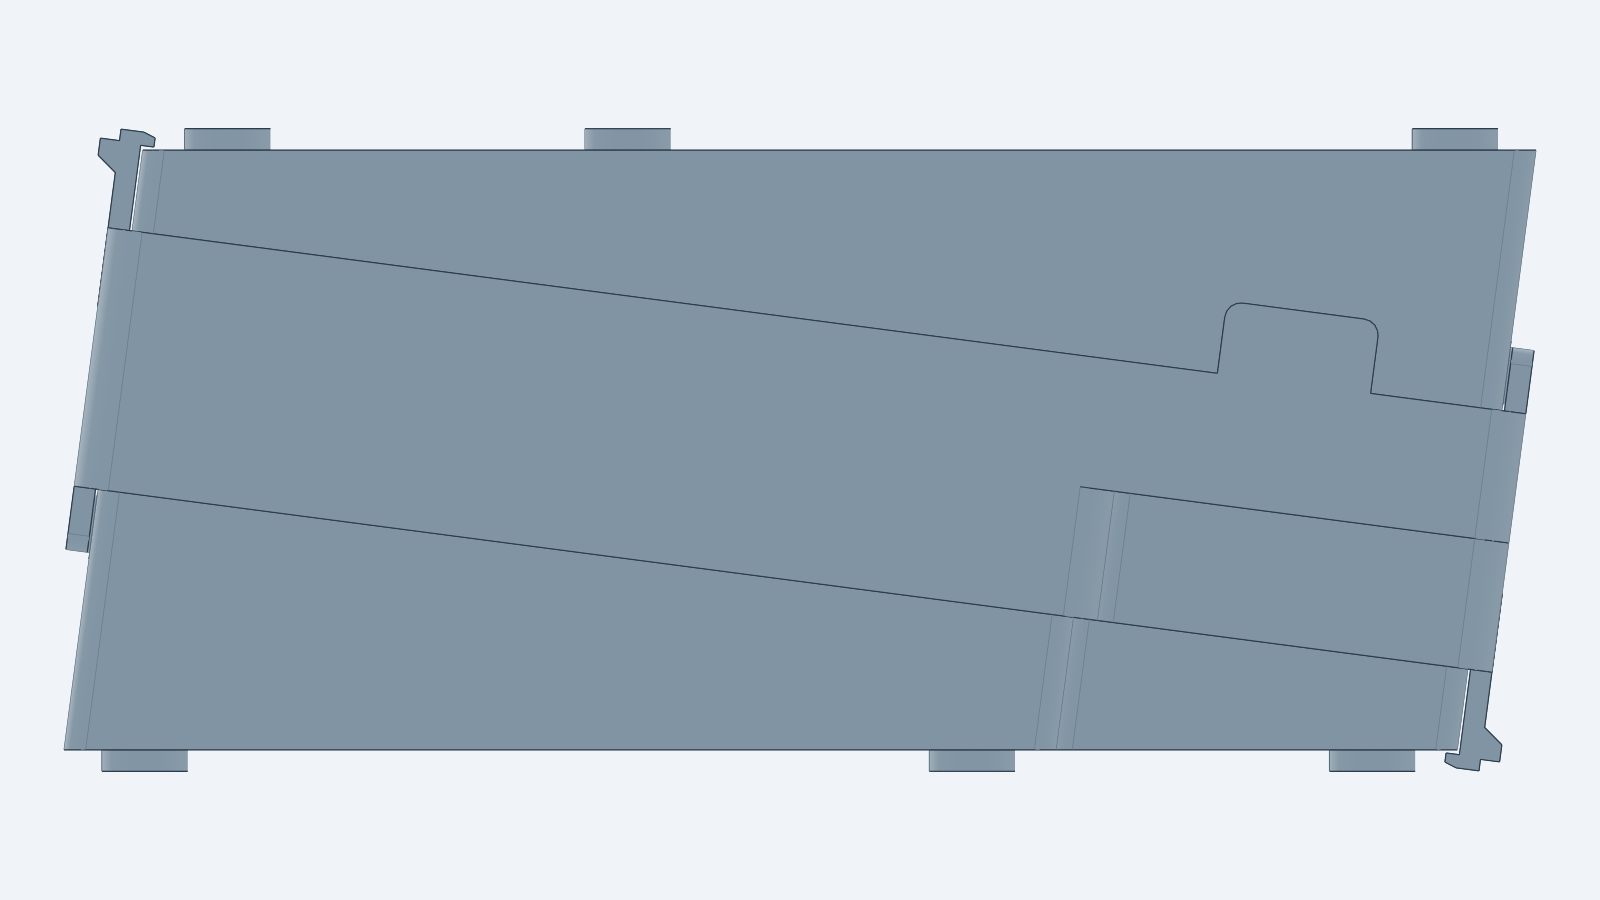
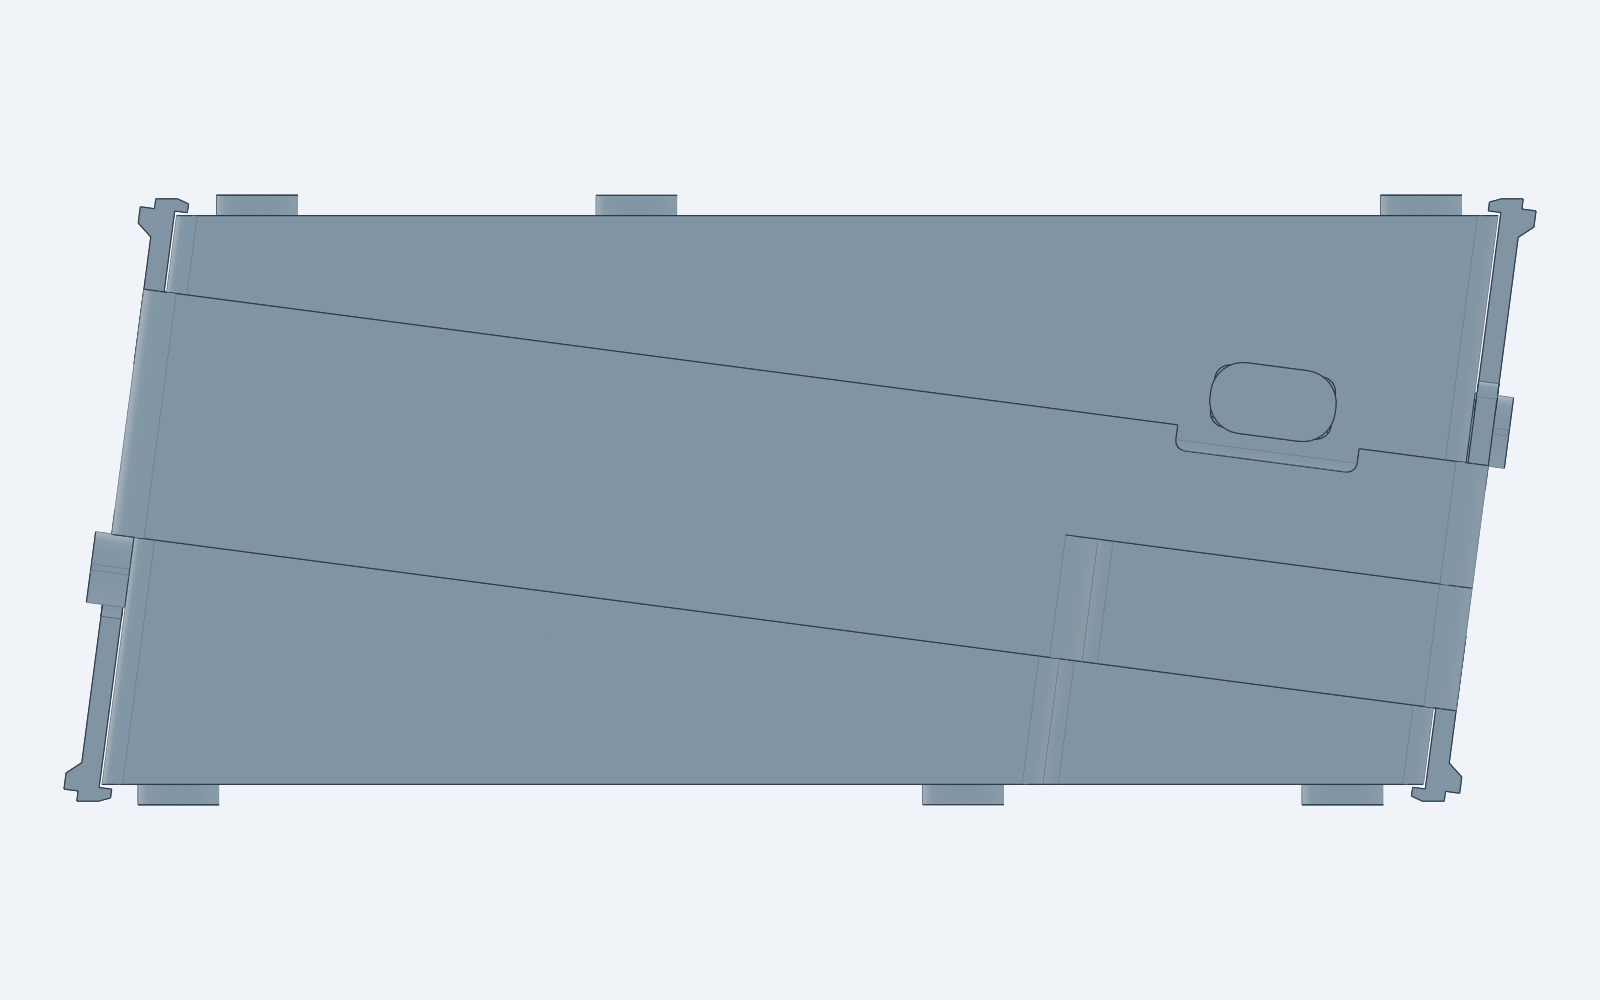
docs: sync carrying frame previews and guide for open USB-C magnetic tips

diff --git a/scripts/README.md b/scripts/README.md
@@ -40,7 +40,7 @@ $CADGEN_PY = "$env:USERPROFILE\.local\bin\uvx.exe"
 | **[`generate_sensor_assemblies.py`](./generate_sensor_assemblies.py)** | PMW3360DM-T2QU + LM19-LSI レンズ + PCB の光学アセンブリ（`cases/assemblies/pmw3360-lens-pcb-assembly.step`）およびカップ＋ボール統合検証モデル（`cases/assemblies/trackball-sensor-assembly.step`）を生成します（両モデルとも `Lens_Optical_Ref_Point` を収録）。 |
 | **[`generate_inertia_wheel.py`](./generate_inertia_wheel.py)** | アンダープレート 1ピース一体軸パッシブ磁気慣性ホイール実部品 4種（[`cases/inertia_wheel/`](../cases/inertia_wheel/) 配下の JLCCNC `45# Steel + 無電解Ni` 削り出し $\varnothing 22.0 \times 6.50\text{ mm}$ `steel-flywheel`、および JLC3DP MJF/SLS PA12 造形 `magnet-holder`, `wheel-rocker`, `wheel-cradle`［Cクリップスナップインヒンジ付］の STEP/STL）ならびに検証アセンブリ（`cases/assemblies/inertia-wheel-assembly.step`）を生成し、JLCCNC/JLC3DP 造形ルール・0.80mm未満薄肉完全ゼロ（除外0件）・静止姿勢（$0^\circ$）〜中クリック押下姿勢（$2.20^\circ$）の全パーツ間干渉ゼロ（`0.00000000 mm³`）・最小可動クリアランス・**6自由度（6-DOF）固定＆稼働拘束検証（`verify_6dof_constraints()`：基板未装着での `#03/#04` 一体保持含む）** を一括検証します。 |
 | **[`generate_full_assembly.py`](./generate_full_assembly.py)** | `kicad-cli pcb export step --subst-models --no-dnp` により全3基板（`left`, `right`, `pmw3360`）と **全535個のKiCad実3D部品モデル** を直接出力・同期したうえで、嵌合する **JST `SHR-06V-S-B` ハウジング 2個**・左右ケース・左右トッププレート・Kailh Choc V2 スイッチ 40個・キーキャップ 40個・トラックボールカップ・25mm球・PMW3360・LM19レンズ・`Lens_Optical_Ref_Point`・アンダープレート一体軸慣性ホイール一式・`M2×L3.0×OD3.2mm` 真鍮ヒートセットインサート 19個・統一 `M2×6.0mm` ネジ 19本を統合したフルアセンブリ（`cases/assemblies/assembly-full.step`, `assembly-full-desk.step`、全674ソリッド）および右手ホイール検証モデル（`cases/assemblies/curcur40-right-wheel-assembly.step`、全349ソリッド）を生成し、①全パーツ間の干渉体積ゼロ（`0.00000000 mm³`）、②非接触パーツ間の最小クリアランス、③3Dプリント部品全6種の0.80mm未満肉厚チェック（確定除外箇所を除く違反0件）、④**スイッチ嵌合トッププレート・フラットボス＆内壁受け棚締結基板・カップ＆ホイール全体の 6-DOF 機械的拘束検証** を一括検証します。 |
-| **[`generate_carrying_case.py`](./generate_carrying_case.py)** | 持ち運び用 1ピース・スナップイン・キャリングフレーム（`cases/carrying-frame.step`, `carrying-frame.stl`：互い違いウェッジ相殺対面構造・親指側 USB-C 固定ツメ＋小指側ワンタッチカンチレバーパドルラッチ・25mm球非接触ハローキーパー・L字欠きシールド・USB-C 防塵シャッター一体造形）および `assembly-full.step` 全674ソリッド＋ゴム足10個を統合した収納アセンブリ（`cases/assemblies/carrying-assembly.step`、全685ソリッド、外寸 $137.27 \times 100.31 \times 59.92\text{ mm}$）を生成し、JLC3DP 基本造形ルール・0.80mm未満薄肉完全ゼロ（除外0件）・全685ソリッド間干渉ゼロ（`0.00000000 mm³`）・最小表面クリアランス・6-DOF 保持拘束を一括検証します。 |
+| **[`generate_carrying_case.py`](./generate_carrying_case.py)** | 持ち運び用 1ピース・スナップイン・キャリングフレーム（`cases/carrying-frame.step`, `carrying-frame.stl`：互い違いウェッジ相殺対面構造・全4箇所 USB-C マグネット端子 `CIO-SLMG-T-C` 用 幅 $18.0\text{ mm}$ 完全開放 U字切り欠き・親指側＆小指側両側ワンタッチカンチレバーパドルラッチ・25mm球非接触ハローキーパー・L字欠きシールド一体造形）および `assembly-full.step` 全674ソリッド＋ゴム足10個＋`CIO-SLMG-T-C` 4個を統合した収納アセンブリ（`cases/assemblies/carrying-assembly.step`、全689ソリッド、外寸 $144.76 \times 103.51 \times 59.92\text{ mm}$）を生成し、JLC3DP 基本造形ルール・0.80mm未満薄肉完全ゼロ（除外0件）・全689ソリッド間干渉ゼロ（`0.00000000 mm³`）・ストレート着脱経路クリアランス・最小表面クリアランス・6-DOF 保持拘束を一括検証します。 |
 
 ### ② KiCad 基板・プレート・JLCPCB 発注データ・図版スクリプト
 ```powershell

diff --git a/README.md b/README.md
@@ -126,14 +126,14 @@ KiCad 10.0 Raytracing（`kicad-cli pcb render`）、`cadgen` 3D CAD レンダラ
 ---
 
 ### 6. 持ち運び用スナップイン・キャリングフレーム（オプション：`carrying-frame.step` / `carrying-assembly.step`）
-- **最小サイズ互い違いウェッジ相殺（$137.27 \times 100.31 \times 59.92\,\text{mm}$）**: 左右ケースの $7.47^\circ$ ビルトインテンティング傾斜を互い違いの向き（左手を $X$ 軸まわりに $180^\circ$ 反転）で対面させて完全に相殺し、$\varnothing 8 \times 2\,\text{mm}$ ゴム足込みでも均一厚み $59.92\,\text{mm}$（素ケース厚 $55.92\,\text{mm}$）のコンパクトな平行直方体ブロックとしてはめ合わせます。
-- **25mm トラックボール装着＆底面ゴム足のままワンタッチ着脱**: ネジ・マグネット・ゴムバンド等の別部品を一切使わない **1ピース `PA12` ナイロン一体造形（`carrying-frame.step`, 体積 $43.29\,\text{cm}^3$）**。25mm ボール周囲を非接触 $0.58\,\text{mm}$ クリアランスで囲うハローキーパー（落下衝撃時の浮き上がりを $+0.73\,\text{mm}$ 以下に制限）、全4箇所の USB-C 防塵シャッター、L字欠き保護シールドを備え、親指側ツメ引っ掛け＋小指側パドルラッチで片手1秒で着脱できます。
+- **最小厚み互い違いウェッジ相殺（均一厚み $59.92\,\text{mm}$）**: 左右ケースの $7.47^\circ$ ビルトインテンティング傾斜を互い違いの向き（左手を $X$ 軸まわりに $180^\circ$ 反転）で対面させて完全に相殺し、$\varnothing 8 \times 2\,\text{mm}$ ゴム足 10 個および全 4 箇所の USB-C マグネット端子（`CIO-SLMG-T-C`）を装着したまま **$144.76 \times 103.51 \times 59.92\,\text{mm}$**（素ケース厚 $55.92\,\text{mm}$）の平行直方体ブロックとしてはめ合わせます。
+- **全4箇所 USB-C マグネット端子常時装着対応 ＆ 両側パドルラッチで押し込みロック**: ネジ・マグネット・ゴムバンド等の別部品を一切使わない **1ピース `PA12` ナイロン一体造形（`carrying-frame.step`, 外寸 $144.76 \times 100.31 \times 59.22\,\text{mm}$, 体積 $44.79\,\text{cm}^3$）**。全4箇所の USB-C ポート周りを幅 $18.0\,\text{mm}$ のオープン U字切り欠きで完全開放しており、`CIO-SLMG-T-C` を付けっぱなしのまま真上から押し込むだけで親指側・小指側の両側カンチレバー・パドルラッチが「カチッ」とロックします（25mm ボール非接触ハローキーパー＆L字欠き保護シールド内蔵）。
 
 | キャリングフレーム単体 (`cases/carrying-frame.step`) | 収納フルアセンブリ 斜視図 (`cases/assemblies/carrying-assembly.step`) |
 | :---: | :---: |
 | ![Carrying Frame Isometric](./docs/assets/render_carrying_frame_iso.png) | ![Carrying Assembly Isometric](./docs/assets/render_carrying_assembly_iso.png) |
 
-#### 正面図（7.47°テンティング傾斜が相殺され上下平行に整列した収納状態・ゴム足接地）
+#### 正面図（7.47°テンティング傾斜が相殺され上下平行に整列した収納状態・USB-Cマグネット端子開放＆ゴム足接地）
 ![Carrying Assembly Front](./docs/assets/render_carrying_assembly_front.png)
 
 ---
@@ -157,7 +157,7 @@ curcur40/
 │   └── assemblies/               # 光学距離・干渉・クリアランス検証用アセンブリモデル 8種 (STEP / STL)
 │       ├── assembly-full.step                    # KiCad実3D部品535個同期・全674ソリッド統合フルアセンブリ（トッププレート水平基準）
 │       ├── assembly-full-desk.step               # KiCad実3D部品535個同期・全674ソリッド統合フルアセンブリ（ケース底面＝デスク面 Z=0 基準）
-│       ├── carrying-assembly.step                # キャリングフレーム収納フルアセンブリ（全685ソリッド・ゴム足10個統合）
+│       ├── carrying-assembly.step                # キャリングフレーム収納フルアセンブリ（全689ソリッド・ゴム足10個＆CIO端子4個統合）
 │       ├── curcur40-right-wheel-assembly.step    # 右手＋KiCad実3D部品＋アンダープレート慣性ホイール検証アセンブリ（349ソリッド）
 │       ├── inertia-wheel-assembly.step           # アンダープレート慣性ホイール機構単体アセンブリ（14パーツ）
 │       ├── trackball-cup-with-ball.step/.stl     # カップ＋25mm球＋光学基準点アセンブリ

diff --git a/docs/parts_spec.md b/docs/parts_spec.md
@@ -101,7 +101,7 @@
 | [`cases/inertia_wheel/magnet-holder.step`](../cases/inertia_wheel/magnet-holder.step) | MJF / SLS `PA12` | 1 | `D4×1mm` 磁石接着レス保持キャップ（東側 $\varnothing 2.00\,\text{mm}$ D穴圧入、$\varnothing 5.72 \times 2.05\,\text{mm}$） |
 | [`cases/inertia_wheel/wheel-rocker.step`](../cases/inertia_wheel/wheel-rocker.step) | MJF / SLS `PA12` | 1 | ホイール軸受シーソーロッカー（Cクリップ軸受座・一体 $\varnothing 3.0\,\text{mm}$ 支点軸・西キーパータブ・南ラチェットボス） |
 | [`cases/inertia_wheel/wheel-cradle.step`](../cases/inertia_wheel/wheel-cradle.step) | MJF / SLS `PA12` | 1 | 右メイン基板裏面固定クレードル（`WC1`/`WC2` インサート下穴×2・$\varnothing 3.06\,\text{mm}$ Cクリップ軸受連結） |
-| [`cases/carrying-frame.step`](../cases/carrying-frame.step) | MJF / SLS `PA12` | 1（任意） | **【オプション】持ち運び用スナップイン・キャリングフレーム**（ネジ・別部品ゼロの1ピース一体造形、25mm球装着＆ゴム足貼付のまま左右対面ワンタッチ収納、外寸 $136.93 \times 100.31 \times 42.86\,\text{mm}$・体積 $43.29\,\text{cm}^3$） |
+| [`cases/carrying-frame.step`](../cases/carrying-frame.step) | MJF / SLS `PA12` | 1（任意） | **【オプション】持ち運び用スナップイン・キャリングフレーム**（ネジ・別部品ゼロの1ピース一体造形、全4箇所 USB-C マグネット端子 `CIO-SLMG-T-C`・25mm球・ゴム足装着のまま両側パドルラッチへ押し込み収納、外寸 $144.76 \times 100.31 \times 59.22\,\text{mm}$・体積 $44.79\,\text{cm}^3$） |
 
 ### 2-3. 基板製造・PCBA 実装（JLCPCB）：計 5種（すべて板厚 `1.6mm` 標準 FR-4）
 - **PCBA 実装基板（3種）**: `curcur40-left`, `curcur40-right`（裏面 `B.Cu` に 3D ホールセンサー `rU6: TMAG5273A1QDBVR` LCSC `C3716049` 自動実装済み！）, `curcur40-pmw3360`
